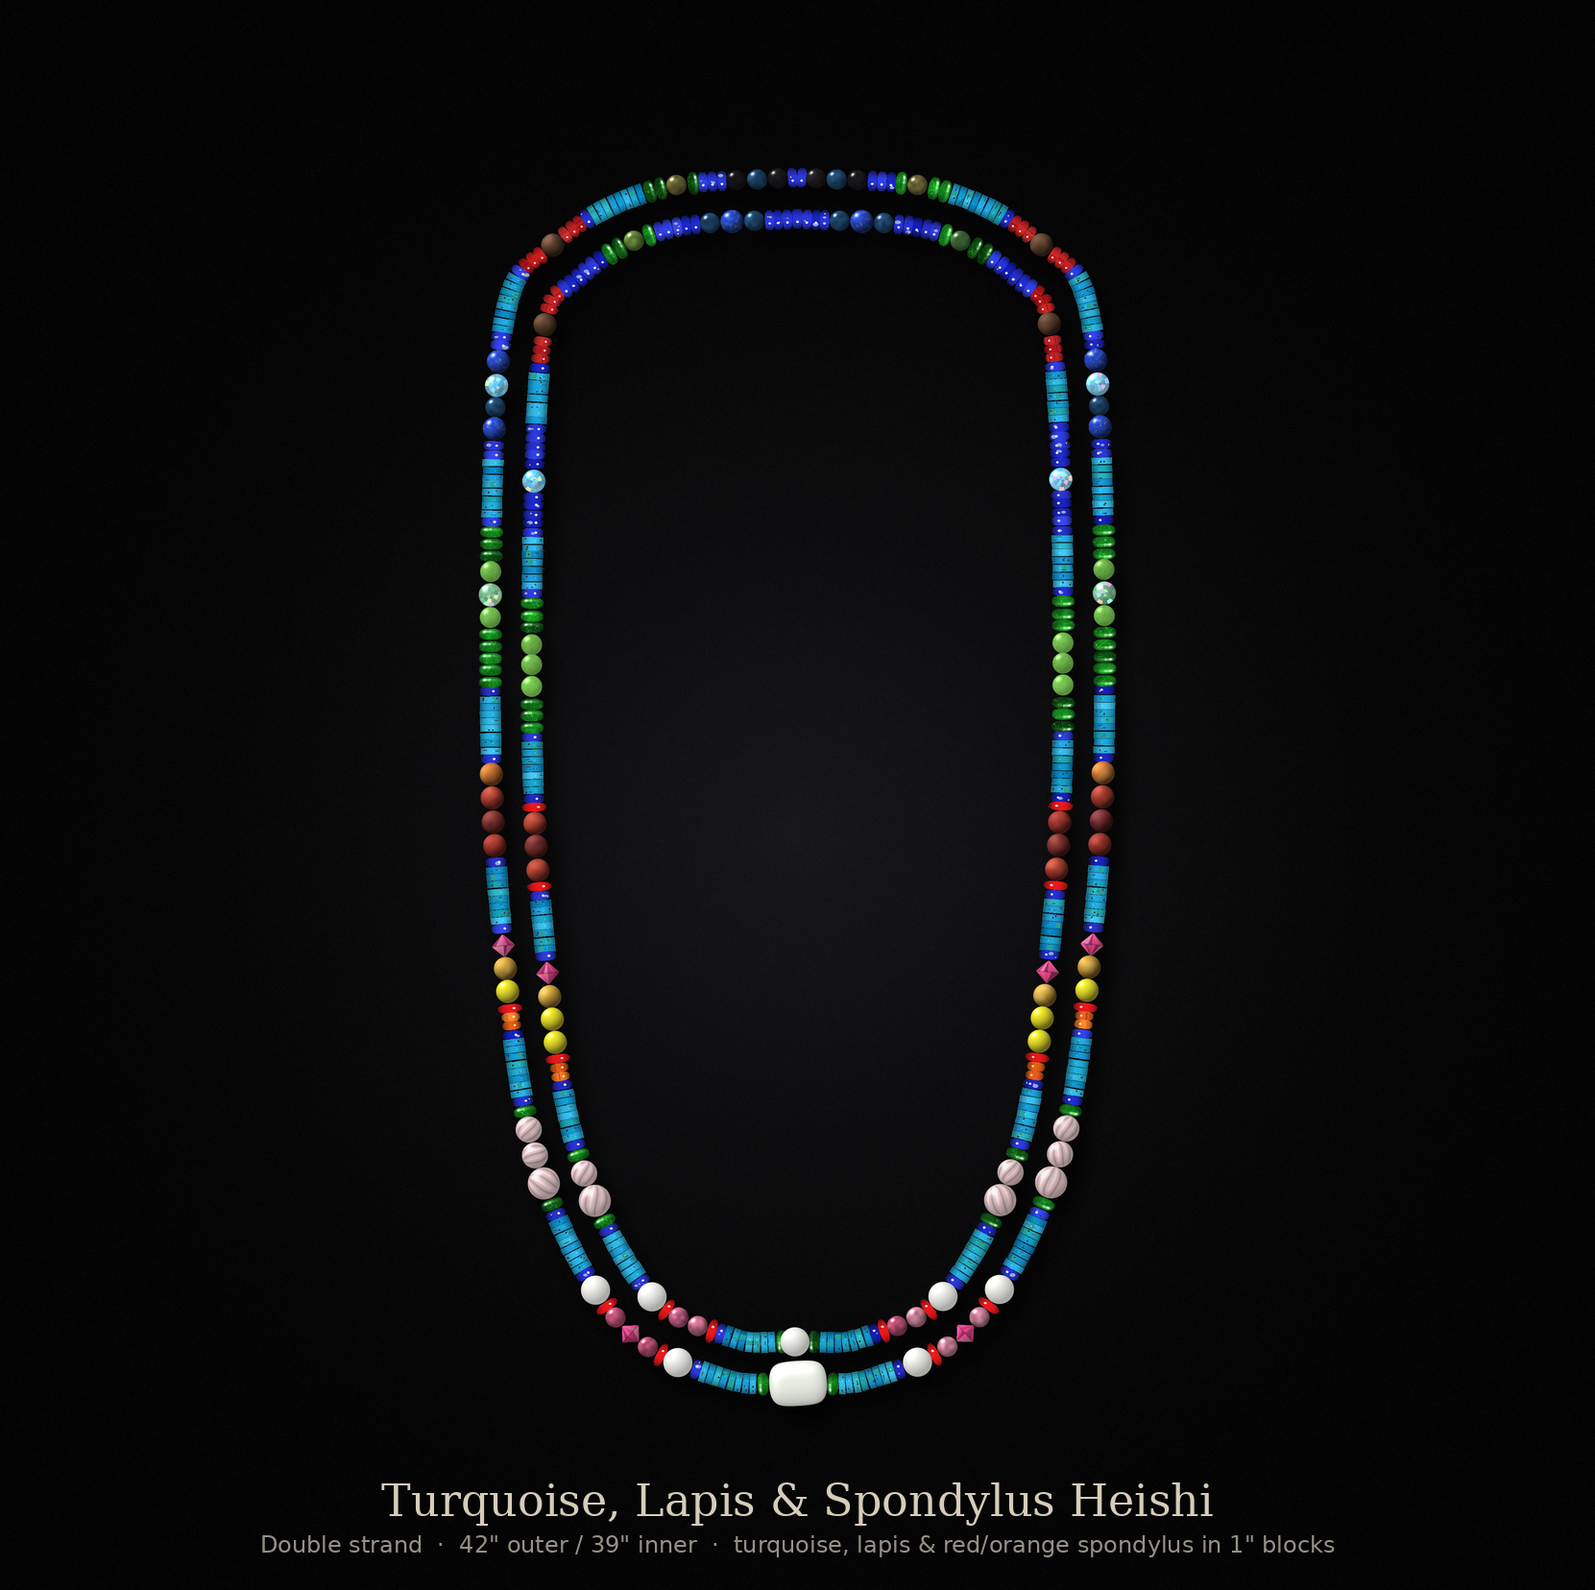
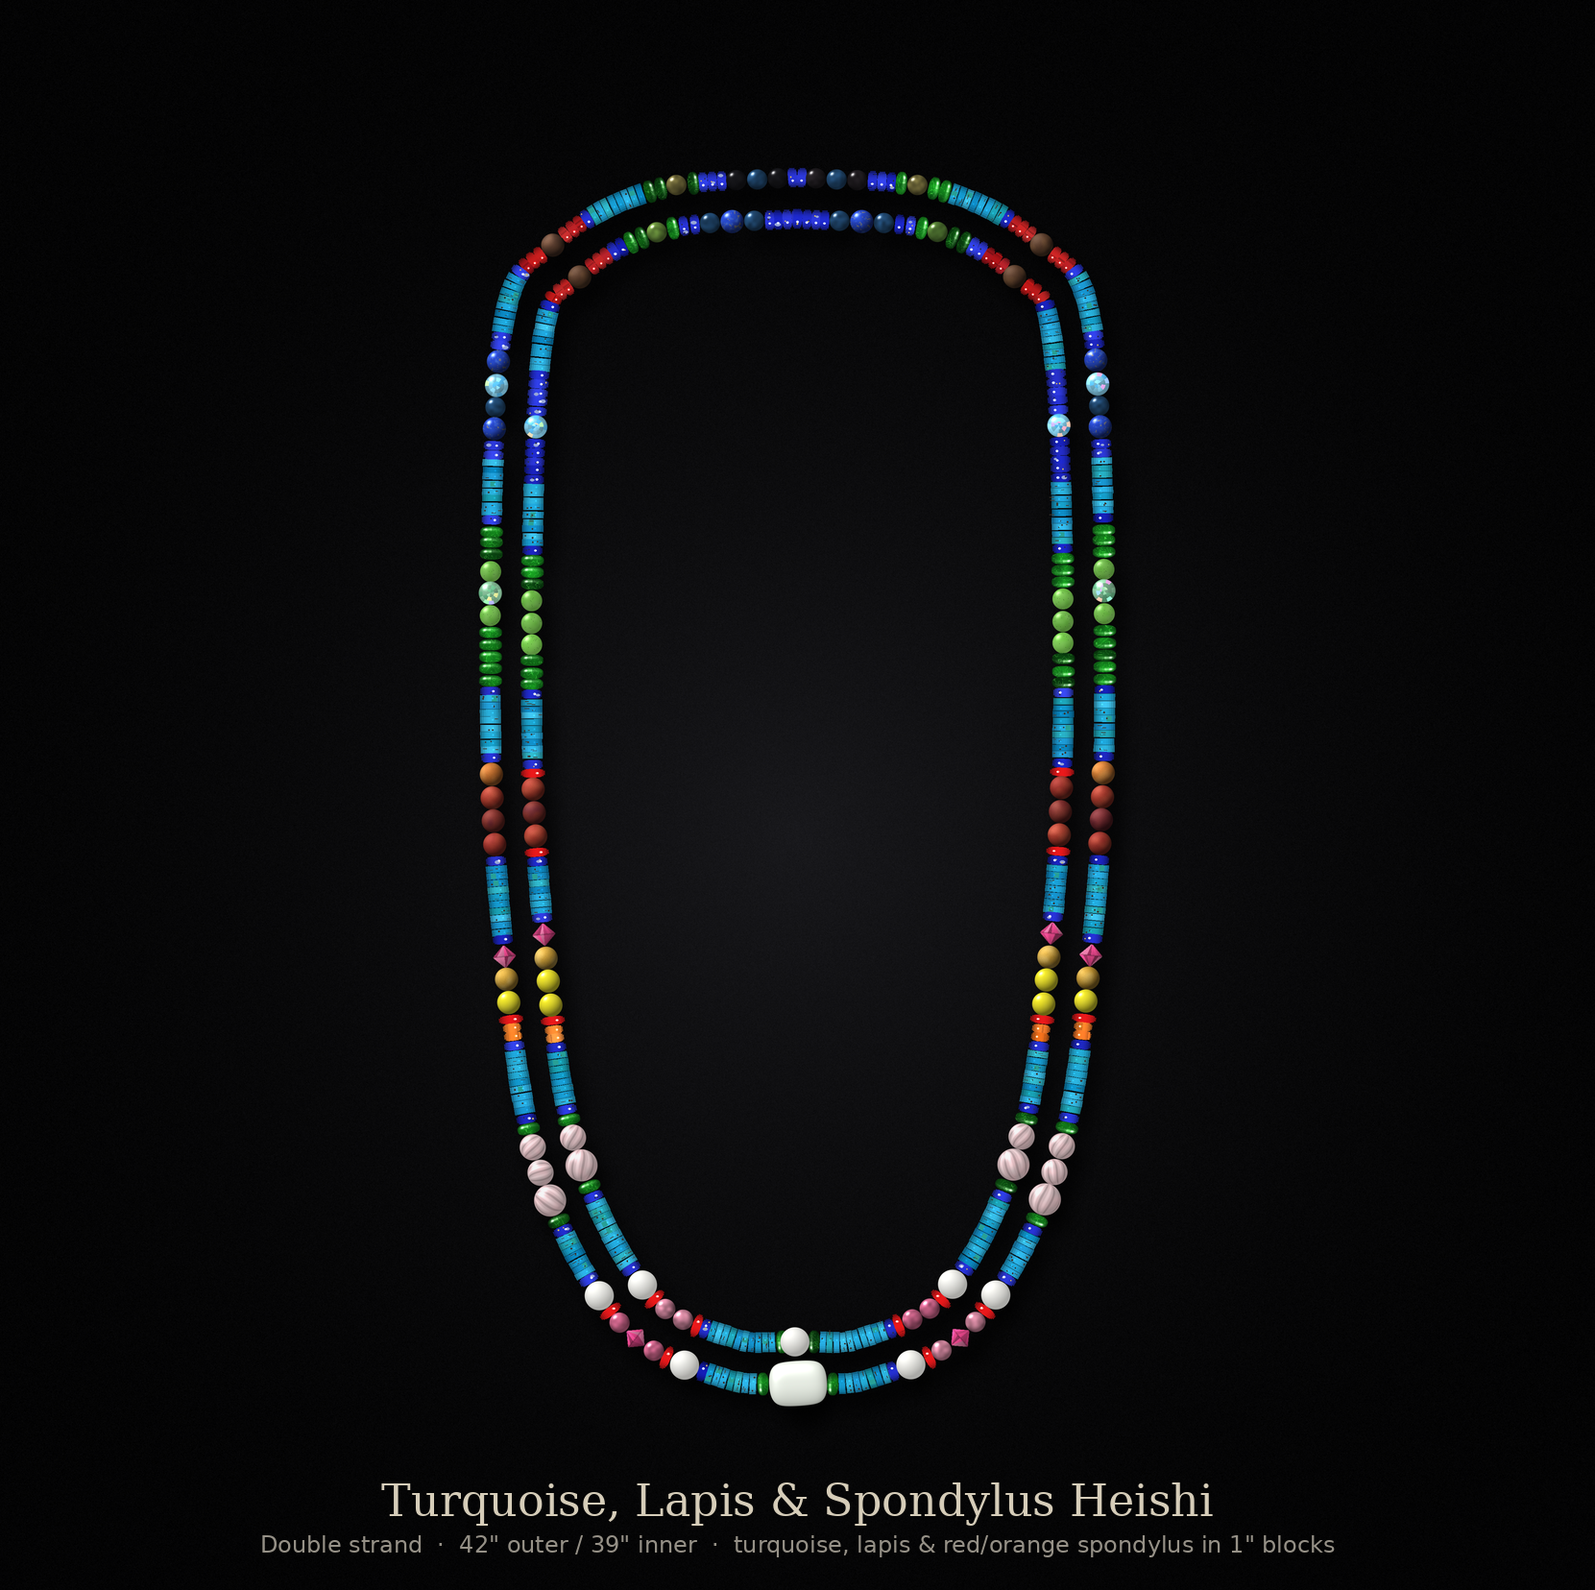
Version 5: bands aligned across strands with near-equal turquoise runs
Claude-Session: https://claude.ai/code/session_014be1vF4Rdf8sv9Si75Gudv

Changed region(s): [[0.2763, 0.1232, 0.4913, 0.8931], [0.522, 0.1848, 0.7062, 0.8931], [0.5527, 0.1232, 0.6448, 0.1848]]

diff --git a/necklace/render_necklace.py b/necklace/render_necklace.py
@@ -1038,138 +1038,178 @@ if V4:
               "opal10": "v4_opal10", "opal9": "v4_opal9", "rq9": "rose", "rq11": "rose11", "ajas": "ajas_t", "mookred": "v5_mookred", "tblue": "v5_tblue", "mookyel": "v5_mookyel", "mookrd": "v5_mookrd", "mookorg": "v5_mookorg", "opal8": "v5_opal8",
               "mook": "mook8", "rbic": "v4_rbic", "sapph": "v4_sapph", "blueglass": "conch8", "focal": "wjade"}
     HEI = {"red": 2, "orange": 3, "redglass": 5}
-    beads_out, beads_in = [], []
-    tourm = {0: [], 1: []}
-    barrels = {0: [], 1: []}
-    denim = []
-    V4_USED = {}
-    V5_CEN = {}
-    for st, STN in (((1, INNER), (0, OUTER)) if V5 else ((0, OUTER), (1, INNER))):
-        path, ss = (outer, s_out) if st == 0 else (inner, s_in)
-        Hh = HIDDEN_OUT if st == 0 else HIDDEN_IN
-        Lf = ss[-1] + Hh
-        H2 = Lf / 2
-        cz = SZ[CENTRE[st]] / 2
-        if V5:
-            STN = [b[st] for b in BANDS]
-        T = sum(SZ[k] for stn in STN for k in stn)
-        f = (H2 - cz - T) / (len(STN) + 0.5)
-        if f < 2.4:
-            raise SystemExit(f"v4 layout does not fit on strand {st}: gap {f:.2f} mm")
-        def put(g, kind, pitch=None):
-            for gg in (g, Lf - g):             # left side, then its mirror on the right
-                sp = gg - Hh / 2
-                if not (0 <= sp <= ss[-1]):
-                    continue
-                j = min(int(np.searchsorted(ss, sp)), len(path) - 1)
-                x, y = path[j]
-                if kind in HEI or kind in ("turq", "lapisH"):
-                    rec = ((x, y, tang[j][0], tang[j][1], j, sp), st)
-                    (beads_out if st == 0 else beads_in).append(rec)
-                    SPLIT[(st, round(sp, 4))] = HEI.get(kind, 0 if kind == "turq" else 1)
-                    if kind == "turq":
-                        TURQ_T[(st, round(sp, 4))] = pitch
-                elif kind == "lapis8":
-                    denim.append((x, y, st))
+    V5_TARGET = None
+    V5_EQ = {}
+    for _pass in (range(2) if V5 else range(1)):
+        beads_out, beads_in = [], []
+        tourm = {0: [], 1: []}
+        barrels = {0: [], 1: []}
+        denim = []
+        V4_USED = {}
+        V5_CEN = {}
+        for st, STN in (((1, INNER), (0, OUTER)) if V5 else ((0, OUTER), (1, INNER))):
+            path, ss = (outer, s_out) if st == 0 else (inner, s_in)
+            Hh = HIDDEN_OUT if st == 0 else HIDDEN_IN
+            Lf = ss[-1] + Hh
+            H2 = Lf / 2
+            cz = SZ[CENTRE[st]] / 2
+            if V5:
+                STN = [b[st] for b in BANDS]
+            T = sum(SZ[k] for stn in STN for k in stn)
+            f = (H2 - cz - T) / (len(STN) + 0.5)
+            if f < 2.4:
+                raise SystemExit(f"v4 layout does not fit on strand {st}: gap {f:.2f} mm")
+            def put(g, kind, pitch=None):
+                for gg in (g, Lf - g):             # left side, then its mirror on the right
+                    sp = gg - Hh / 2
+                    if not (0 <= sp <= ss[-1]):
+                        continue
+                    j = min(int(np.searchsorted(ss, sp)), len(path) - 1)
+                    x, y = path[j]
+                    if kind in HEI or kind in ("turq", "lapisH"):
+                        rec = ((x, y, tang[j][0], tang[j][1], j, sp), st)
+                        (beads_out if st == 0 else beads_in).append(rec)
+                        SPLIT[(st, round(sp, 4))] = HEI.get(kind, 0 if kind == "turq" else 1)
+                        if kind == "turq":
+                            TURQ_T[(st, round(sp, 4))] = pitch
+                    elif kind == "lapis8":
+                        denim.append((x, y, st))
+                    else:
+                        tourm[st].append((x, y, tang[j][0], tang[j][1], sp, KIND_T[kind]))
+            # gap filler: lapis heishi while the dark budget lasts, then turquoise
+            gaps = [f / 2] + [f] * len(STN)
+            if V5:
+                # align band centres by height: use common fractions computed from the widest of each band pair
+                Hin = (s_in[-1] + HIDDEN_IN) / 2 - SZ[CENTRE[1]] / 2
+                Wmax = [max(sum(SZ[k] for k in b[0]), sum(SZ[k] for k in b[1])) for b in BANDS]
+                gapc = (Hin - sum(Wmax)) / (len(BANDS) + 0.5)
+                cen, acc = [], gapc / 2
+                for w in Wmax:
+                    cen.append((acc + w / 2) / Hin); acc += w + gapc
+                Hs = H2 - cz
+                # turquoise gaps come from the unframed layout; the extra frame width is taken from the top section
+                Wmax0 = [max(sum(SZ[k] for k in b[0]), sum(SZ[k] for k in b[1])) for b in BANDS_PREV]
+                gapc0 = (Hin - sum(Wmax0)) / (len(BANDS_PREV) + 0.5)
+                cen0, acc = [], gapc0 / 2
+                for w in Wmax0:
+                    cen0.append((acc + w / 2) / Hin); acc += w + gapc0
+                raw = [b[st] for b in BANDS_PREV]
+                w0 = [sum(SZ[k] for k in r) for r in raw]
+                st0 = [c * Hs - w / 2 for c, w in zip(cen0, w0)]
+                mids = [st0[i + 1] - (st0[i] + w0[i]) for i in range(len(raw) - 1)]
+                last = Hs - (st0[-1] + w0[-1])
+                widths = [sum(SZ[k] for k in stn) for stn in STN]
+                first = Hs - sum(widths) - sum(mids) - last
+                if st == 0:                         # outer green's extra length goes downward, not into the top section
+                    first += widths[4] - 52.6
+                    first += 8.0                        # rose band's diopside borders: room taken locally, not from the top
+                if st == 1:                         # inner strand: green band raised 4 mm
+                    mids[3] -= 4.0
+                    mids[4] += 4.0
+                    mids[5] -= 8.0                      # inner rose bicone takes its room from the run just above it
+                    first += 8.0
+                    mids[6] -= 8.0                      # second inner yellow glass takes its room from the run just below
+                    first += 8.0
+                    mids[6] -= 4.0                      # rose band's diopside borders: 4 mm from the run above it...
+                    mids[7] -= 4.0                      # ...and 4 mm from the run below it
+                    first += 8.0
+                if first < 3.0:                     # take the shortfall from the lapis run behind the neck, not turquoise
+                    mids[0] -= 3.0 - first
+                    first = 3.0
+                gaps = [first] + mids + [last]
+                if st == 1:                         # remember where the inner bands sit (fraction of the strand)
+                    _acc, _c = 0.0, []
+                    for _gi in range(len(widths)):
+                        _acc += gaps[_gi]; _c.append((_acc + widths[_gi] / 2) / Hs); _acc += widths[_gi]
+                    V5_CEN[1] = _c
+                else:                               # outer bands placed to line up with their inner partners
+                    _cur, _a = [], 0.0
+                    for _gi in range(len(widths)):
+                        _a += gaps[_gi]; _cur.append(_a); _a += widths[_gi]
+                    _st = list(_cur)
+                    for i in (3, 4, 5):                 # only the blue, green and brown bands move down to line up
+                        _st[i] = V5_CEN[1][i] * Hs - widths[i] / 2
+                    _st[3] += 11.0                      # outer blue band lowered so its blue glass sits just above the inner one
+                    _st[4] += 4.0                       # outer green keeps its top; the extra diopside extends it downward
+                    for i in (6, 7, 8):                 # bands below keep their places
+                        _st[i] -= widths[4] - 52.6
+                    _st[7] -= 4.0                       # rose band grows 4 mm upward and 4 mm downward
+                    _st[8] -= 8.0
+                    gaps = [_st[0]] + [_st[i + 1] - (_st[i] + widths[i]) for i in range(len(widths) - 1)] + \
+                           [Hs - (_st[-1] + widths[-1])]
+                    first, mids = gaps[0], gaps[1:-1]
+                print(f"v5 strand {st}: gaps {[round(float(x), 1) for x in gaps]}")
+                gaps[-1] -= PER_L_                  # room for a chrome diopside beside the centre bead
+                # equal turquoise runs between all coloured segments (lapis runs behind the neck unchanged)
+                _nl = 2 if st == 0 else 3
+                _avg = sum(gaps[_nl:]) / len(gaps[_nl:])
+                gaps = gaps[:_nl] + [_avg] * (len(gaps) - _nl)
+                _a2, _c2 = 0.0, []
+                for _gi in range(len(widths)):
+                    _a2 += gaps[_gi]; _c2.append((_a2 + widths[_gi] / 2) / Hs); _a2 += widths[_gi]
+                V5_EQ[st] = _c2
+                V5_EQ[("geo", st)] = (Hs, list(widths), _c2[1] * Hs + widths[1] / 2)   # end of band 1 (fixed)
+                if V5_TARGET is not None:       # second pass: every visible band at the shared (averaged) height
+                    _sx = [_c2[i] * Hs - widths[i] / 2 for i in range(len(widths))]
+                    for i in range(3, len(widths)):
+                        _sx[i] = V5_TARGET[i] * Hs - widths[i] / 2
+                    _sx[2] = V5_U[st]
+                    if _sx[2] < _sx[1] + widths[1] + 3.0:     # push band 1 up into the lapis behind the neck if needed
+                        _sx[1] = max(_sx[0] + widths[0] + 3.0, _sx[2] - 3.0 - widths[1])
+                        _sx[2] = max(_sx[2], _sx[1] + widths[1] + 3.0)
+                    gaps = [_sx[0]] + [_sx[i + 1] - (_sx[i] + widths[i]) for i in range(len(widths) - 1)] + \
+                           [Hs - PER_L_ - (_sx[-1] + widths[-1])]
+                print(f"v5 strand {st} pass gaps", [round(float(x),1) for x in gaps]) if V5_TARGET is not None else None
+            g = 0.0
+            lap = LAP_BUDGET[st]
+            for gi, gl in enumerate(gaps):
+                nl = max(1, int(round(gl / 3.0)))
+                if (lap >= nl and not V5) or (V5 and gi <= (1 if st == 0 else 2)):   # v5: same lapis runs as before
+                    for q in range(nl):
+                        put(g + gl / nl * (q + 0.5), "lapisH")
+                    lap -= nl
+                    V4_USED["lapisH"] = V4_USED.get("lapisH", 0) + 2 * nl
                 else:
-                    tourm[st].append((x, y, tang[j][0], tang[j][1], sp, KIND_T[kind]))
-        # gap filler: lapis heishi while the dark budget lasts, then turquoise
-        gaps = [f / 2] + [f] * len(STN)
-        if V5:
-            # align band centres by height: use common fractions computed from the widest of each band pair
-            Hin = (s_in[-1] + HIDDEN_IN) / 2 - SZ[CENTRE[1]] / 2
-            Wmax = [max(sum(SZ[k] for k in b[0]), sum(SZ[k] for k in b[1])) for b in BANDS]
-            gapc = (Hin - sum(Wmax)) / (len(BANDS) + 0.5)
-            cen, acc = [], gapc / 2
-            for w in Wmax:
-                cen.append((acc + w / 2) / Hin); acc += w + gapc
-            Hs = H2 - cz
-            # turquoise gaps come from the unframed layout; the extra frame width is taken from the top section
-            Wmax0 = [max(sum(SZ[k] for k in b[0]), sum(SZ[k] for k in b[1])) for b in BANDS_PREV]
-            gapc0 = (Hin - sum(Wmax0)) / (len(BANDS_PREV) + 0.5)
-            cen0, acc = [], gapc0 / 2
-            for w in Wmax0:
-                cen0.append((acc + w / 2) / Hin); acc += w + gapc0
-            raw = [b[st] for b in BANDS_PREV]
-            w0 = [sum(SZ[k] for k in r) for r in raw]
-            st0 = [c * Hs - w / 2 for c, w in zip(cen0, w0)]
-            mids = [st0[i + 1] - (st0[i] + w0[i]) for i in range(len(raw) - 1)]
-            last = Hs - (st0[-1] + w0[-1])
-            widths = [sum(SZ[k] for k in stn) for stn in STN]
-            first = Hs - sum(widths) - sum(mids) - last
-            if st == 0:                         # outer green's extra length goes downward, not into the top section
-                first += widths[4] - 52.6
-                first += 8.0                        # rose band's diopside borders: room taken locally, not from the top
-            if st == 1:                         # inner strand: green band raised 4 mm
-                mids[3] -= 4.0
-                mids[4] += 4.0
-                mids[5] -= 8.0                      # inner rose bicone takes its room from the run just above it
-                first += 8.0
-                mids[6] -= 8.0                      # second inner yellow glass takes its room from the run just below
-                first += 8.0
-                mids[6] -= 4.0                      # rose band's diopside borders: 4 mm from the run above it...
-                mids[7] -= 4.0                      # ...and 4 mm from the run below it
-                first += 8.0
-            if first < 3.0:                     # take the shortfall from the lapis run behind the neck, not turquoise
-                mids[0] -= 3.0 - first
-                first = 3.0
-            gaps = [first] + mids + [last]
-            if st == 1:                         # remember where the inner bands sit (fraction of the strand)
-                _acc, _c = 0.0, []
-                for _gi in range(len(widths)):
-                    _acc += gaps[_gi]; _c.append((_acc + widths[_gi] / 2) / Hs); _acc += widths[_gi]
-                V5_CEN[1] = _c
-            else:                               # outer bands placed to line up with their inner partners
-                _cur, _a = [], 0.0
-                for _gi in range(len(widths)):
-                    _a += gaps[_gi]; _cur.append(_a); _a += widths[_gi]
-                _st = list(_cur)
-                for i in (3, 4, 5):                 # only the blue, green and brown bands move down to line up
-                    _st[i] = V5_CEN[1][i] * Hs - widths[i] / 2
-                _st[3] += 11.0                      # outer blue band lowered so its blue glass sits just above the inner one
-                _st[4] += 4.0                       # outer green keeps its top; the extra diopside extends it downward
-                for i in (6, 7, 8):                 # bands below keep their places
-                    _st[i] -= widths[4] - 52.6
-                _st[7] -= 4.0                       # rose band grows 4 mm upward and 4 mm downward
-                _st[8] -= 8.0
-                gaps = [_st[0]] + [_st[i + 1] - (_st[i] + widths[i]) for i in range(len(widths) - 1)] + \
-                       [Hs - (_st[-1] + widths[-1])]
-                first, mids = gaps[0], gaps[1:-1]
-            print(f"v5 strand {st}: gaps {[round(float(x), 1) for x in gaps]}")
-            gaps[-1] -= PER_L_                  # room for a chrome diopside beside the centre bead
-            # equal turquoise runs between all coloured segments (lapis runs behind the neck unchanged)
-            _nl = 2 if st == 0 else 3
-            _avg = sum(gaps[_nl:]) / len(gaps[_nl:])
-            gaps = gaps[:_nl] + [_avg] * (len(gaps) - _nl)
-            print(f"v5 strand {st}: equal turquoise run {_avg:.1f} mm")
-        g = 0.0
-        lap = LAP_BUDGET[st]
-        for gi, gl in enumerate(gaps):
-            nl = max(1, int(round(gl / 3.0)))
-            if (lap >= nl and not V5) or (V5 and gi <= (1 if st == 0 else 2)):   # v5: same lapis runs as before
-                for q in range(nl):
-                    put(g + gl / nl * (q + 0.5), "lapisH")
-                lap -= nl
-                V4_USED["lapisH"] = V4_USED.get("lapisH", 0) + 2 * nl
-            else:
-                nt = max(1, int(round(gl / 2.4)))
-                for q in range(nt):
-                    put(g + gl / nt * (q + 0.5), "turq", gl / nt)
-                V4_USED["turq"] = V4_USED.get("turq", 0) + 2 * nt
-            g += gl
-            if gi < len(STN):
-                for k in STN[gi]:
-                    put(g + SZ[k] / 2, k)
-                    V4_USED[k] = V4_USED.get(k, 0) + 2
-                    g += SZ[k]
-        if V5:                                   # one chrome diopside touching the centre bead, each side
-            put(H2 - cz - PER_L_ / 2, "diop")
-            V4_USED["diop"] = V4_USED.get("diop", 0) + 2
-        # centre bead at the bottom (one only)
-        sp = H2 - Hh / 2
-        j = min(int(np.searchsorted(ss, sp)), len(path) - 1)
-        tourm[st].append((path[j][0], path[j][1], tang[j][0], tang[j][1], sp, KIND_T[CENTRE[st]]))
-        V4_USED[CENTRE[st]] = V4_USED.get(CENTRE[st], 0) + 1
+                    nt = max(1, int(round(gl / 2.4)))
+                    for q in range(nt):
+                        put(g + gl / nt * (q + 0.5), "turq", gl / nt)
+                    V4_USED["turq"] = V4_USED.get("turq", 0) + 2 * nt
+                g += gl
+                if gi < len(STN):
+                    for k in STN[gi]:
+                        put(g + SZ[k] / 2, k)
+                        V4_USED[k] = V4_USED.get(k, 0) + 2
+                        g += SZ[k]
+            if V5:                                   # one chrome diopside touching the centre bead, each side
+                put(H2 - cz - PER_L_ / 2, "diop")
+                V4_USED["diop"] = V4_USED.get("diop", 0) + 2
+            # centre bead at the bottom (one only)
+            sp = H2 - Hh / 2
+            j = min(int(np.searchsorted(ss, sp)), len(path) - 1)
+            tourm[st].append((path[j][0], path[j][1], tang[j][0], tang[j][1], sp, KIND_T[CENTRE[st]]))
+            V4_USED[CENTRE[st]] = V4_USED.get(CENTRE[st], 0) + 1
+
+        if V5 and _pass == 0:
+            # shared heights for bands 3..8, plus a per-strand start for band 2, chosen by least squares so the
+            # turquoise runs on BOTH strands come out as equal as possible
+            _nb = len(V5_EQ[0]); _k = _nb - 3                        # t3..t8
+            _nv = _k + 4                                              # + u0, u1 (band-2 starts) + m0, m1
+            _A, _b = [], []
+            for _s in (0, 1):
+                _H, _w, _e1 = V5_EQ[("geo", _s)]
+                iu, im = _k + _s, _k + 2 + _s
+                def R():
+                    return [0.0] * _nv
+                if _s == 0:                                           # outer: run above band 2 is turquoise
+                    r = R(); r[iu] = 1; r[im] = -1; _A.append(r); _b.append(_e1)
+                r = R(); r[0] = _H; r[iu] = -1; r[im] = -1; _A.append(r); _b.append(_w[3] / 2 + _w[2])   # run above blue
+                for j in range(_k - 1):
+                    i = 3 + j; r = R(); r[j + 1] = _H; r[j] = -_H; r[im] = -1
+                    _A.append(r); _b.append(_w[i + 1] / 2 + _w[i] / 2)
+                r = R(); r[_k - 1] = -_H; r[im] = -1; _A.append(r); _b.append(-_H + PER_L_ + _w[_nb - 1] / 2)
+            _sol = np.linalg.lstsq(np.array(_A), np.array(_b), rcond=None)[0]
+            V5_TARGET = list(V5_EQ[0][:3]) + list(_sol[:_k])
+            V5_U = {0: _sol[_k], 1: _sol[_k + 1]}
     print("v4 bead use (full necklace):", dict(sorted(V4_USED.items())))
 
 allbeads = beads_out + beads_in
